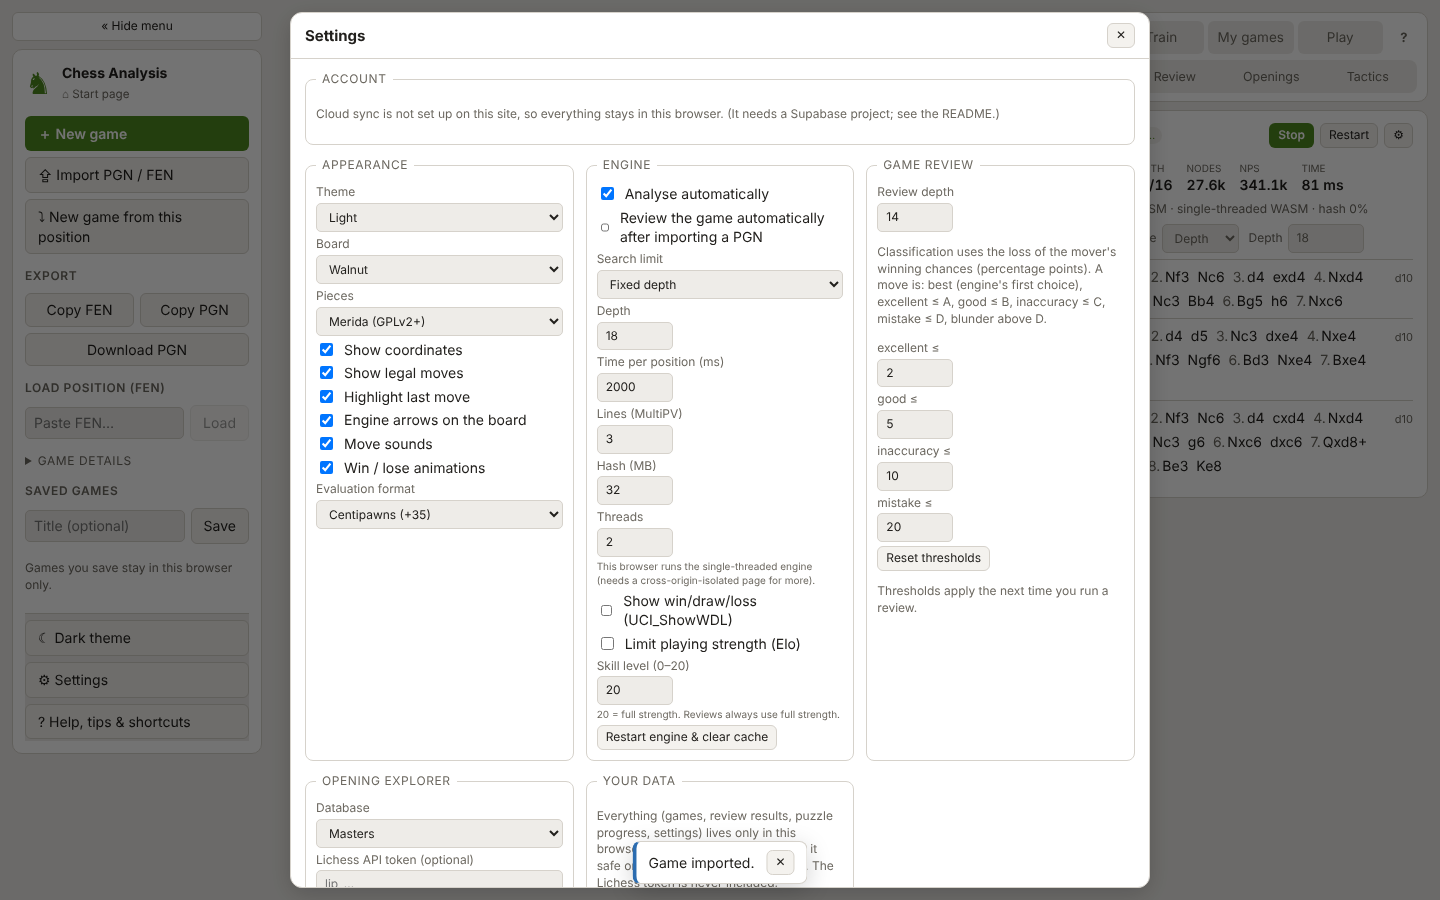
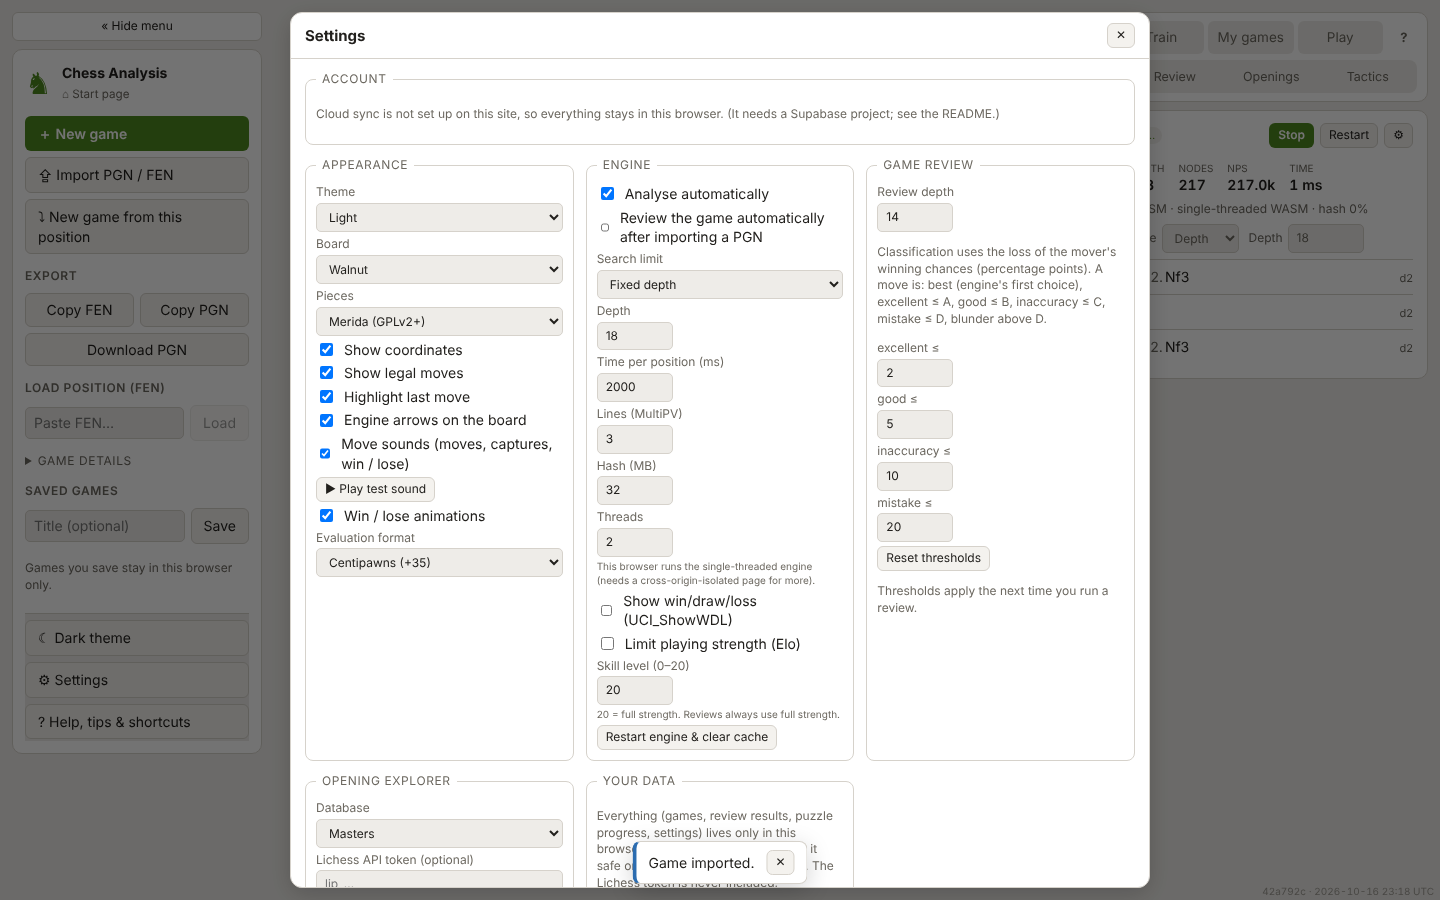
Fix sound on phones (unlock on first tap, new setting key so old 'off' is ignored, test button); fix Colour/Start-from hidden on mobile Play
Claude-Session: https://claude.ai/code/session_01Hgj6vNLbXkGtnkUjtVvSMf

diff --git a/src/utils/sound.ts b/src/utils/sound.ts
@@ -9,8 +9,36 @@ export type SoundKind = 'move' | 'capture' | 'castle' | 'check' | 'end' | 'win' 
 
 function audio(): AudioContext {
   ctx ??= new AudioContext();
-  if (ctx.state === 'suspended') void ctx.resume();
+  if (ctx.state !== 'running') void ctx.resume();
   return ctx;
+}
+
+/**
+ * Browsers (iOS above all) only allow audio after a tap. Call once from the first user gesture: it creates and resumes
+ * the AudioContext, plays a silent buffer, and asks Safari to treat the page as media playback so the ring/silent
+ * switch does not mute the sounds.
+ */
+export function unlockAudio(): void {
+  try {
+    const nav = navigator as Navigator & { audioSession?: { type: string } };
+    if (nav.audioSession !== undefined) nav.audioSession.type = 'playback';
+    const c = audio();
+    const src = c.createBufferSource();
+    src.buffer = c.createBuffer(1, 1, 22050);
+    src.connect(c.destination);
+    src.start(0);
+  } catch {
+    // no audio available
+  }
+}
+
+/** Install a one-time listener that unlocks audio on the first tap, click or key press. */
+export function installAudioUnlock(): void {
+  const once = () => {
+    unlockAudio();
+    for (const e of ['pointerdown', 'touchend', 'keydown']) window.removeEventListener(e, once, true);
+  };
+  for (const e of ['pointerdown', 'touchend', 'keydown']) window.addEventListener(e, once, { capture: true, passive: true });
 }
 
 function noiseBuffer(c: AudioContext): AudioBuffer {

diff --git a/src/stores/settingsStore.ts b/src/stores/settingsStore.ts
@@ -33,7 +33,7 @@ export interface Settings {
   showLegalMoves: boolean;
   highlightLastMove: boolean;
   showEngineArrows: boolean;
-  soundEnabled: boolean;
+  moveSounds: boolean;
   winAnimations: boolean;
   evalDisplay: EvalDisplayMode;
   autoAnalyze: boolean;
@@ -67,7 +67,7 @@ export const DEFAULT_SETTINGS: Settings = {
   showLegalMoves: true,
   highlightLastMove: true,
   showEngineArrows: true,
-  soundEnabled: true,
+  moveSounds: true,
   winAnimations: true,
   evalDisplay: 'pawns',
   autoAnalyze: true,
@@ -122,7 +122,7 @@ export function sanitizeSettings(raw: unknown): Settings {
     showLegalMoves: bool(r['showLegalMoves'], d.showLegalMoves),
     highlightLastMove: bool(r['highlightLastMove'], d.highlightLastMove),
     showEngineArrows: bool(r['showEngineArrows'], d.showEngineArrows),
-    soundEnabled: bool(r['soundEnabled'], d.soundEnabled),
+    moveSounds: bool(r['moveSounds'], d.moveSounds),
     winAnimations: bool(r['winAnimations'], d.winAnimations),
     evalDisplay: oneOf(r['evalDisplay'], ['pawns', 'centipawns', 'winpercent'], d.evalDisplay),
     autoAnalyze: bool(r['autoAnalyze'], d.autoAnalyze),

diff --git a/src/components/SettingsDialog.tsx b/src/components/SettingsDialog.tsx
@@ -1,3 +1,4 @@
+import { playSound, unlockAudio } from '@/utils/sound';
 import { DEFAULT_THRESHOLDS } from '@/analysis/classify';
 import { clearEvalCache, restartEngine, useEngine } from '@/stores/engineStore';
 import {
@@ -104,7 +105,8 @@ export function SettingsDialog() {
           <Check k="showLegalMoves" label="Show legal moves" />
           <Check k="highlightLastMove" label="Highlight last move" />
           <Check k="showEngineArrows" label="Engine arrows on the board" />
-          <Check k="soundEnabled" label="Move sounds" />
+          <Check k="moveSounds" label="Move sounds (moves, captures, win / lose)" />
+          <button className="btn small" type="button" onClick={() => { unlockAudio(); playSound("capture"); setTimeout(() => playSound("win"), 450); }} data-testid="sound-test">▶ Play test sound</button>
           <Check k="winAnimations" label="Win / lose animations" />
           <label className="field"><span>Evaluation format</span>
             <select value={s.evalDisplay} onChange={(e) => updateSettings({ evalDisplay: e.target.value as Settings['evalDisplay'] })}>

diff --git a/src/components/BoardFx.tsx b/src/components/BoardFx.tsx
@@ -31,13 +31,13 @@ export function BoardFx() {
     else if (puzzlePhase === 'solved' && was.puzzlePhase !== 'solved') kind = 'solved';
     else if (puzzlePhase === 'solving' && wrong > was.wrong) kind = 'wrong';
     if (kind === null) return;
-    if (settings.soundEnabled) setTimeout(() => playSound(SOUND[kind]), kind === 'wrong' ? 0 : 250);
+    if (settings.moveSounds) setTimeout(() => playSound(SOUND[kind]), kind === 'wrong' ? 0 : 250);
     if (!settings.winAnimations) return;
     counter.current += 1;
     setFx({ id: counter.current, kind });
     const t = setTimeout(() => setFx(null), kind === 'win' ? 2600 : 1400);
     return () => clearTimeout(t);
-  }, [outcome, puzzlePhase, wrong, settings.soundEnabled, settings.winAnimations]);
+  }, [outcome, puzzlePhase, wrong, settings.moveSounds, settings.winAnimations]);
 
   if (fx === null) return null;
   return (

diff --git a/src/components/ChessBoard.tsx b/src/components/ChessBoard.tsx
@@ -208,10 +208,10 @@ export function ChessBoard() {
   useEffect(() => {
     if (lastSoundNode.current === currentId) return;
     lastSoundNode.current = currentId;
-    if (!settings.soundEnabled || node.uci === '') return;
+    if (!settings.moveSounds || node.uci === '') return;
     const inGame = playOpen || puzzleOpen; // in a game or puzzle the win / lose / solved jingle replaces the "end" sound
     playSound(gameOver && !inGame ? 'end' : inCheck ? 'check' : node.san.includes('x') ? 'capture' : node.san.startsWith('O-O') ? 'castle' : 'move');
-  }, [currentId, settings.soundEnabled, node.uci, node.san, gameOver, inCheck, playOpen, puzzleOpen]);
+  }, [currentId, settings.moveSounds, node.uci, node.san, gameOver, inCheck, playOpen, puzzleOpen]);
 
   const choosePromotion = (piece: PromotionPiece | null) => {
     const pending = promotion;

diff --git a/tests/pv-settings.test.ts b/tests/pv-settings.test.ts
@@ -73,7 +73,7 @@ describe('settings sanitising', () => {
       multiPv: 99, // clamped
       analysisDepth: -5, // clamped
       hashMb: 'big', // invalid
-      soundEnabled: 'yes', // invalid
+      moveSounds: 'yes', // invalid
       elo: 5000, // clamped
     });
     expect(result.theme).toBe('light');
@@ -82,7 +82,7 @@ describe('settings sanitising', () => {
     expect(result.multiPv).toBe(8);
     expect(result.analysisDepth).toBe(1);
     expect(result.hashMb).toBe(DEFAULT_SETTINGS.hashMb);
-    expect(result.soundEnabled).toBe(true); // invalid value falls back to the default (on)
+    expect(result.moveSounds).toBe(true); // invalid value falls back to the default (on)
     expect(result.elo).toBe(3190);
   });
 

diff --git a/src/main.tsx b/src/main.tsx
@@ -10,6 +10,7 @@ import { initPlay } from './stores/playStore';
 import { initView } from './stores/viewStore';
 import { initSync } from './sync/syncStore';
 import { installPieceCss } from './utils/boardStyle';
+import { installAudioUnlock } from './utils/sound';
 import { VersionBadge } from './components/VersionBadge';
 
 installPieceCss();
@@ -18,6 +19,7 @@ initPuzzles();
 initPlay();
 initView();
 void initSync();
+installAudioUnlock();
 
 const rootEl = document.getElementById('root');
 if (rootEl === null) throw new Error('Missing #root element');

diff --git a/src/styles/app.css b/src/styles/app.css
@@ -699,7 +699,7 @@ details.fold:not([open]) > summary { margin-bottom: 0; }
 }
 @media (max-width: 400px) { .strength-count > span { flex: 1 1 100%; } }
 @media (max-width: 900px) {
-  .col-right .tabs:not(:has(.tab-row.sub button)) { display: none; }
+  .col-right > nav.tabs:not(:has(.tab-row.sub button)) { display: none; }
 }
 
 /* ---------- phone layout: full-width board, slim horizontal eval bar, compact moves ---------- */

diff --git a/e2e/sound_mobile.py b/e2e/sound_mobile.py
@@ -1,0 +1,38 @@
+import asyncio, os, json
+from playwright.async_api import async_playwright
+exec(open(os.path.join(os.path.dirname(__file__),'common.py')).read())
+def check(name, cond): print(('PASS ' if cond else 'FAIL ')+name)
+INSTR = """(()=>{window.__snd={buf:0,osc:0};const A=window.AudioContext;
+ window.AudioContext=class extends A{createBufferSource(){window.__snd.buf++;return super.createBufferSource()}createOscillator(){window.__snd.osc++;return super.createOscillator()}};})();"""
+async def tap_sq(pg, sq):
+    box=await pg.locator('cg-board').bounding_box(); s=box['width']/8
+    f='abcdefgh'.index(sq[0]); r=int(sq[1])-1
+    await pg.touchscreen.tap(box['x']+(f+.5)*s, box['y']+(7-r+.5)*s)
+async def main():
+    async with async_playwright() as p:
+        b=await p.chromium.launch(**LAUNCH,args=['--no-sandbox','--autoplay-policy=no-user-gesture-required'])
+        ctx=await b.new_context(viewport={'width':390,'height':800}, has_touch=True, is_mobile=True)
+        await ctx.add_init_script(INSTR)
+        pg=await ctx.new_page(); errs=[]; pg.on('pageerror',lambda e: errs.append(str(e)))
+        await pg.goto(URL); await pg.wait_for_selector('cg-board')
+        # an old build stored soundEnabled:false: it must not silence the new setting
+        await pg.evaluate("localStorage.clear(); localStorage.setItem('chess-analysis:settings:v1', JSON.stringify({soundEnabled:false}))")
+        await pg.reload(); await pg.wait_for_selector('cg-board')
+        await tap_sq(pg,'e2'); await pg.wait_for_timeout(100); await tap_sq(pg,'e4'); await pg.wait_for_timeout(500)
+        n=await pg.evaluate("window.__snd")
+        check(f'a move makes a sound (buffer sources: {n["buf"]})', n['buf']>=1)
+        await tap_sq(pg,'e7'); await pg.wait_for_timeout(100); await tap_sq(pg,'e5'); await pg.wait_for_timeout(300)
+        await tap_sq(pg,'d2'); await pg.wait_for_timeout(100); await tap_sq(pg,'d4'); await pg.wait_for_timeout(300)
+        await tap_sq(pg,'e5'); await pg.wait_for_timeout(100); await tap_sq(pg,'d4'); await pg.wait_for_timeout(500)  # capture
+        n2=await pg.evaluate("window.__snd")
+        check(f'a capture makes a sound too (buffer sources {n["buf"]} -> {n2["buf"]})', n2['buf']>n['buf']+2)
+        # Play tab on a phone: colour and start position are selectable
+        await pg.click('.mobile-tabs >> text=Play'); await pg.wait_for_selector('[data-testid=color-b]')
+        check('Colour buttons visible on a phone', await pg.locator('[data-testid=color-b]').is_visible())
+        check('Start-from buttons visible on a phone', await pg.locator('[data-testid=from-fen]').is_visible())
+        await pg.tap('[data-testid=color-b]'); await pg.tap('[data-testid=from-fen]'); await pg.wait_for_timeout(200)
+        check('tapping Black selects it', await pg.get_attribute('[data-testid=color-b]','aria-checked')=='true')
+        check('tapping FEN selects it and shows the input', await pg.get_attribute('[data-testid=from-fen]','aria-checked')=='true' and await pg.locator('[data-testid=from-fen-input]').is_visible())
+        check('no page errors', errs==[])
+        await b.close()
+asyncio.run(main())

diff --git a/e2e/board_fx.py b/e2e/board_fx.py
@@ -12,13 +12,17 @@ async def resign(pg):
 async def main():
     async with async_playwright() as p:
         b=await p.chromium.launch(**LAUNCH,args=['--no-sandbox'])
-        ctx=await b.new_context(viewport={'width':1440,'height':900}); pg=await ctx.new_page(); errs=[]
+        ctx=await b.new_context(viewport={'width':1440,'height':900})
+        await ctx.add_init_script("(()=>{window.__osc=0;const A=window.AudioContext;window.AudioContext=class extends A{createOscillator(){window.__osc++;return super.createOscillator()}};})();")
+        pg=await ctx.new_page(); errs=[]
         pg.on('pageerror',lambda e: errs.append(str(e)))
         await pg.goto(URL); await pg.wait_for_selector('cg-board'); await pg.evaluate("localStorage.clear()"); await pg.reload(); await pg.wait_for_selector('cg-board')
         check('no effect before anything happens', await pg.locator('[data-testid=board-fx]').count()==0)
         await resign(pg)
         await pg.wait_for_selector('[data-testid=board-fx]',timeout=3000)
         check('resigning shows the "lose" effect', await pg.get_attribute('[data-testid=board-fx]','data-fx')=='lose')
+        await pg.wait_for_timeout(800)
+        check('the losing jingle is played (4 notes)', await pg.evaluate('window.__osc')>=4)
         check('effect does not block the board', await pg.evaluate("getComputedStyle(document.querySelector('[data-testid=board-fx]')).pointerEvents")=='none')
         await pg.wait_for_timeout(1800)
         check('effect disappears again', await pg.locator('[data-testid=board-fx]').count()==0)
